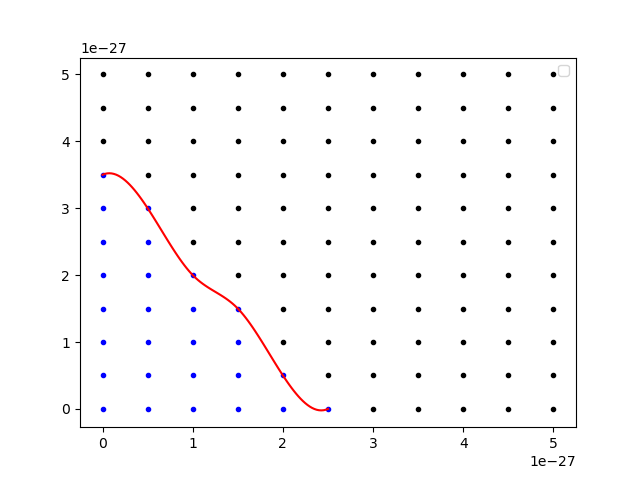
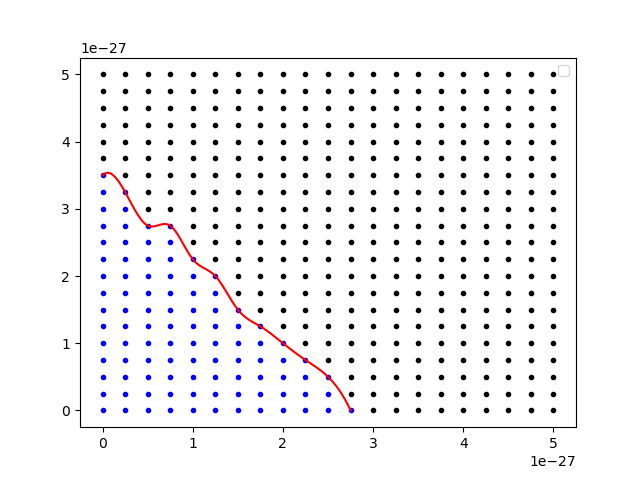
'stuff'

diff --git a/Max Likelihood.py b/Max Likelihood.py
@@ -79,9 +79,10 @@ def getMasses(decay):
     masses = []
     for x in PDFdir.iterdir():
         if str(x).endswith('.csv'):
-            if not float(str(x)[:4]) > 1150.0:
-                masses.append(float(str(x)[len(str(PDFdir))+1:-4]))
-    return np.array(masses)
+            mass = float(str(x)[len(str(PDFdir))+1:-4])
+            if not mass > 1150.0:
+                masses.append(mass)
+    return np.sort(np.array(masses))
 
 def draw_from_pdf(Pc, Ndraws):
         # draw random counts from P(c)
@@ -382,9 +383,9 @@ def background(energy, exposure, Sangle):
 
 #gives the probability of getting something at least as extreme in %
 #takes log likelihood of most likely point in parameter space and true point
-def sigmaProb(mostLikely, true):
+def sigmaProb(mostLikely, true, deg = 2.):
     lam = -2*(true - mostLikely)
-    chi2CDF = scipy.special.gammainc(1, lam/2)
+    chi2CDF = scipy.special.gammainc(deg/2, lam/2)
     return 1 - chi2CDF
 
 ###################################################################################################################
@@ -557,6 +558,70 @@ def likelihoodPlot_2decays_DMs(decay_channels, true_params, radius, num_points, 
     fig.show()
     #modelPlot(trueModel, bestModel, DM, exposure, Sangle, Ensemble)
     print(bestModel[3]+np.log(1+np.sum(np.exp(np.array(likelihoods)[:,3]-bestModel[3]))))
+
+def likelihoodPlot_2decays_DMs_better(decay_channels, true_params, radius, num_points, exposure, Sangle, resolution, marginalize = True):
+    DM = true_params[0]
+    true_decayRate1 = true_params[1]
+    true_decayRate2 = true_params[2]
+    decayRates1 = np.linspace(0., true_decayRate1 + radius, num_points)
+    decayRates2 = np.linspace(0., true_decayRate2 + radius, num_points)
+    DM_thresholds = np.zeros(np.size(decay_channels))
+    for di in np.arange(np.size(decay_channels)):
+        DM_thresholds[di] = np.min(getMasses(decay_channels[di]))
+    DMs = getMasses(decay_channels[np.where(DM_thresholds == np.max(DM_thresholds))[0][0]])
+    Ensemble1 = getEnsemble(decay_channels[0], DM, true_decayRate1, exposure, Sangle)
+    Ensemble2 = getEnsemble(decay_channels[1], DM, true_decayRate2, exposure, Sangle)
+    Ensemble3 = getBackEnsemble(exposure, Sangle)
+    Ensemble = np.concatenate((Ensemble1, Ensemble2, Ensemble3))
+    Ensemble = smearEnsemble(Ensemble, resolution)
+    print('Ensembles: '+ str(len(Ensemble1))+', '+str(len(Ensemble2))+', '+str(len(Ensemble3)))
+    loglikelihoods = -np.inf*np.ones((np.size(DMs), np.size(decayRates1), np.size(decayRates2)))
+    for m in np.arange(np.size(DMs)):
+        if True:
+            for d1 in np.arange(np.size(decayRates1)):
+                for d2 in np.arange(np.size(decayRates2)):
+                    vec = np.array([decayRates1[d1]-true_decayRate1, decayRates2[d2]-true_decayRate2])
+                    if np.absolute(np.sum(vec*np.array([1,-1]))/np.sqrt(2)) < 2*radius and np.absolute(np.sum(vec*np.array([1,1]))/np.sqrt(2)) < radius/2:
+                        print('model coordinates: (' + str(DMs[m]) + ',' + str(decayRates1[d1]) + ',' + str(decayRates2[d2]) + ')')
+                        Jprob = JPD_2decays(decayRates1[d1], decayRates2[d2], DMs[m], exposure, Sangle, Ensemble)
+                        loglikelihoods[m, d1, d2] = Jprob
+    maxJprob = np.max(loglikelihoods)
+    indices = np.where(loglikelihoods == maxJprob)
+    bestModel = [DMs[indices[0][0]], decayRates1[indices[1][0]], decayRates2[indices[2][0]]]
+    trueJprob = JPD_2decays(true_decayRate1, true_decayRate2, DM, exposure, Sangle, Ensemble)
+    trueModel = [DM, true_decayRate1, true_decayRate2]
+    #bestModel = trueModel
+    #maxJprob = trueJprob
+    print('Best model:')
+    print(bestModel)
+    print('True model:')
+    print(trueModel)
+    sigma = 1+scipy.special.erf(-(5)/np.sqrt(2))#5 sigma ellipse
+    sigmaLikelihoods = sigmaProb(maxJprob, loglikelihoods, deg = 3)
+    if marginalize:
+        X, Y = np.meshgrid(decayRates1, decayRates2)
+        fig, ax = plt.subplots()
+        for m in np.arange(np.size(DMs)):
+            if True:
+                ax.contourf(X, Y, np.transpose(sigmaLikelihoods[m]), [sigma, 1.], colors = 'purple')
+        '''
+        for m in np.arange(np.size(DMs)):
+            if DMs[m] == 1000.0:
+                sigmaLikelihoods = sigmaProb(maxJprob, loglikelihoods, deg = 2)
+                ax.contourf(X, Y, np.transpose(sigmaLikelihoods[m]), [sigma, 1.], colors = 'blue')
+        '''
+        ax.set_title('Probability of True Model: {:.5%}'.format(sigmaProb(maxJprob, trueJprob))+'\n'
+                 + 'True Model: ({:.5} , {:.5}, {:.5})'.format(float(DM), float(true_decayRate1), float(true_decayRate2))+'\n'
+                 + 'Best Model: ({:.5} , {:.5}, {:.5})'.format(float(bestModel[0]), float(bestModel[1]), float(bestModel[2])))
+        ax.set_ylabel('Pi Pi Eta Decay Rate [s^-1]')
+        ax.set_xlabel('Pi Eta Decay Rate [s^-1]')
+        
+        ax.plot(decayRates1, -decayRates1+(true_decayRate1+true_decayRate2+radius/(2*np.sqrt(2))), 'k')
+        ax.plot(decayRates1, -decayRates1+(true_decayRate1+true_decayRate2-radius/(2*np.sqrt(2))), 'k')
+        ax.plot(decayRates1, decayRates1+(-true_decayRate1+true_decayRate2+2*radius/(np.sqrt(2))), 'k')
+        ax.plot(decayRates1, decayRates1+(-true_decayRate1+true_decayRate2-2*radius/(np.sqrt(2))), 'k')
+        
+        fig.show()
 
 def modelPlot(trueModel, bestModel, DM, exposure, Sangle, Ensemble):
     JfactorDracoDecay = 5.77*(10**24) #(MeV cm^-2 sr^-1)
@@ -852,29 +917,30 @@ interp1d(DMassPiPi, PiPiLikelihood, kind='linear',
     exposure = 3000
     Sangle = 0.000404322
     resolution = .3
-    decayRates1 = np.linspace(0.e-26, 2.e-26, 11)
-    decayRates2 = np.linspace(0.e-26, 2.e-26, 11)
+    decayRates1 = np.linspace(0.e-26, 3.e-26, 21)
+    decayRates2 = np.linspace(0.e-26, 3.e-26, 21)
     likelihoodPlot_2decays(true_decayRate1, true_decayRate2, decayRates1, decayRates2, DM, exposure, Sangle, resolution)
     '''
-    '''
+    
     decay_channels = ['Pi Eta','Pi Pi Eta']
-    true_params = [1500.0, 2.e-26, 2.e-26]
-    radius = 3.e-26
-    num_points = 3
+    true_params = [1000.0, 2.e-26, 2.e-26]
+    radius = 5.e-26
+    num_points = 60
     exposure = 3000
     Sangle = 0.000404322
     resolution = .3
-    likelihoodPlot_2decays_DMs(decay_channels, true_params, radius, num_points, exposure, Sangle, resolution)
-    '''
+    likelihoodPlot_2decays_DMs_better(decay_channels, true_params, radius, num_points, exposure, Sangle, resolution)
     
-    DMs = np.linspace(830, 1150, 33)
+    '''
+    #DMs = np.linspace(830, 1150, 33)
+    DMs = [1000.]
     exposures = [3000.]
     Sangle = 0.000404322
     resolution = .3
-    decayRates1 = np.linspace(0.e-26, 0.5e-26, 21)
-    decayRates2 = np.linspace(0.e-26, 0.5e-26, 21)
+    decayRates1 = np.linspace(0.e-26, 0.33e-26, 61)
+    decayRates2 = np.linspace(0.e-26, 0.33e-26, 61)
     sigmaGridPlot_2decays(decayRates1, decayRates2, DMs, exposures, Sangle, resolution, num_ave = 30)
-    
+    '''
     '''
     DMs = [1000.]
     exposures = [3000.]
